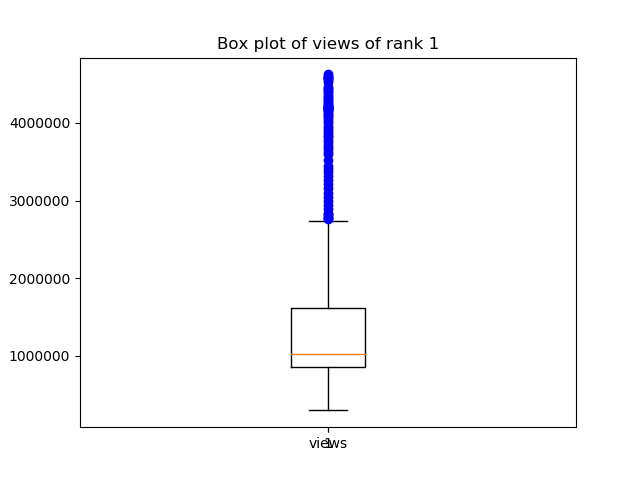
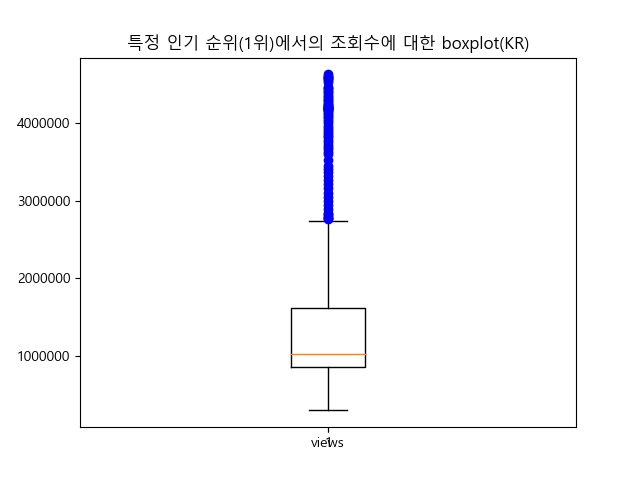
add label

diff --git a/3.py b/3.py
@@ -1,5 +1,8 @@
 import pymysql
 import matplotlib.pyplot as plt
+from matplotlib import font_manager, rc
+font_name = font_manager.FontProperties(fname="c:/Windows/Fonts/malgun.ttf").get_name()
+rc('font', family=font_name)
 
 # kr timeId 277 전까지는 15분 277은 22.5분 그 이후는 30분으로 친다.
 con = pymysql.connect(host="localhost", user="root", password="ckddud950!", db="youtube_popular", charset="utf8")
@@ -96,8 +99,11 @@ for data in timeOnPopularList:
         count += 1
 x.append(temp)
 y.append(count / len(timeOnPopularList))
-plt.plot(x, y, color="blue")
-plt.plot(x2, y2, color="red")
+
+plt.title('인기영상 리스트에 올라와있는 시간 CDF')
+plt.plot(x, y, color="blue", label="KR")
+plt.plot(x2, y2, color="red", label="US")
+plt.legend()
 plt.savefig('3result.png')
 
 con.close()

diff --git a/5-1.py b/5-1.py
@@ -1,5 +1,8 @@
 import pymysql
 import matplotlib.pyplot as plt
+from matplotlib import font_manager, rc
+font_name = font_manager.FontProperties(fname="c:/Windows/Fonts/malgun.ttf").get_name()
+rc('font', family=font_name)
 
 con = pymysql.connect(host="localhost", user="root", password="ckddud950!", db="youtube_popular", charset="utf8")
 cur = con.cursor()
@@ -87,8 +90,11 @@ for data in likesHatesPerViewsList:
         count += 1
 x2.append(temp)
 y2.append(count / len(likesHatesPerViewsList))
-plt.plot(x, y, color="blue")
-plt.plot(x2, y2, color="red")
+
+plt.title('조회수 대비 (좋아요 + 싫어요)의 비율 CDF (영상별로 가장 마지막 timeId)')
+plt.plot(x, y, color="blue", label="KR")
+plt.plot(x2, y2, color="red", label="US")
+plt.legend()
 plt.savefig('5-1result.png')
 
 con.close()

diff --git a/5-2.py b/5-2.py
@@ -1,5 +1,8 @@
 import pymysql
 import matplotlib.pyplot as plt
+from matplotlib import font_manager, rc
+font_name = font_manager.FontProperties(fname="c:/Windows/Fonts/malgun.ttf").get_name()
+rc('font', family=font_name)
 
 con = pymysql.connect(host="localhost", user="root", password="ckddud950!", db="youtube_popular", charset="utf8")
 cur = con.cursor()
@@ -88,8 +91,10 @@ for data in likesPerHates:
 x2.append(temp)
 y2.append(count / len(likesPerHates))
 
-plt.plot(x, y, color="blue")
-plt.plot(x2, y2, color="red")
+plt.title('(좋아요 / 싫어요) CDF (영상별로 가장 마지막 timeId)')
+plt.plot(x, y, color="blue", label="KR")
+plt.plot(x2, y2, color="red", label="US")
+plt.legend()
 plt.savefig('5-2result.png')
 
 con.close()

diff --git a/5-3us.py b/5-3us.py
@@ -1,5 +1,8 @@
 import pymysql
 import matplotlib.pyplot as plt
+from matplotlib import font_manager, rc
+font_name = font_manager.FontProperties(fname="c:/Windows/Fonts/malgun.ttf").get_name()
+rc('font', family=font_name)
 
 con = pymysql.connect(host="localhost", user="root", password="ckddud950!", db="youtube_popular2", charset="utf8")
 cur = con.cursor()
@@ -19,7 +22,7 @@ for element in result:
     else:
         views.append(result[0])
 
-plt.title('Box plot of views of rank 1')
+plt.title('특정 인기 순위(1위)에서의 조회수에 대한 boxplot(US)')
 plt.xticks([1],['views'])
 plt.boxplot(views, sym="bo")
 plt.savefig('5-3usresult.png')

diff --git a/5-3kr.py b/5-3kr.py
@@ -1,5 +1,8 @@
 import pymysql
 import matplotlib.pyplot as plt
+from matplotlib import font_manager, rc
+font_name = font_manager.FontProperties(fname="c:/Windows/Fonts/malgun.ttf").get_name()
+rc('font', family=font_name)
 
 con = pymysql.connect(host="localhost", user="root", password="ckddud950!", db="youtube_popular", charset="utf8")
 cur = con.cursor()
@@ -19,7 +22,7 @@ for element in result:
     else:
         views.append(result[0])
 
-plt.title('Box plot of views of rank 1')
+plt.title('특정 인기 순위(1위)에서의 조회수에 대한 boxplot(KR)')
 plt.xticks([1],['views'])
 plt.boxplot(views, sym="bo")
 plt.savefig('5-3krresult.png')

diff --git a/2.py b/2.py
@@ -1,6 +1,9 @@
 import pymysql
 import json
 import matplotlib.pyplot as plt
+from matplotlib import font_manager, rc
+font_name = font_manager.FontProperties(fname="c:/Windows/Fonts/malgun.ttf").get_name()
+rc('font', family=font_name)
 
 def getJaccard(list1, list2):
     count = 0
@@ -89,7 +92,9 @@ for data in jaccards:
 x2.append(temp)
 y2.append(count / len(jaccards))
 
-plt.plot(x, y, color="blue")
-plt.plot(x2, y2, color="red")
+plt.title('인기 영상이 얼마나 잘 변화하는지 CDF')
+plt.plot(x, y, color="blue", label="KR")
+plt.plot(x2, y2, color="red", label="US")
+plt.legend()
 plt.savefig('2result.png')
 con.close()

diff --git a/6kr.py b/6kr.py
@@ -56,6 +56,7 @@ for ii in range(0, len(category) - 1):
     x.append(temp)
     y.append(count / len(jaccards))
 
+    plt.title('카테고리 별로 인기 영상 얼마나 잘 변화하는지 CDF(KR)')
     plt.plot(x, y, color=col[ii], label=category[ii])
     plt.legend()
     plt.savefig('6krresult.png')

diff --git a/6us.py b/6us.py
@@ -56,6 +56,7 @@ for ii in range(0, len(category) - 1):
     x.append(temp)
     y.append(count / len(jaccards))
 
+    plt.title('카테고리 별로 인기 영상 얼마나 잘 변화하는지 CDF(US)')
     plt.plot(x, y, color=col[ii], label=category[ii])
     plt.legend()
     plt.savefig('6usresult.png')
